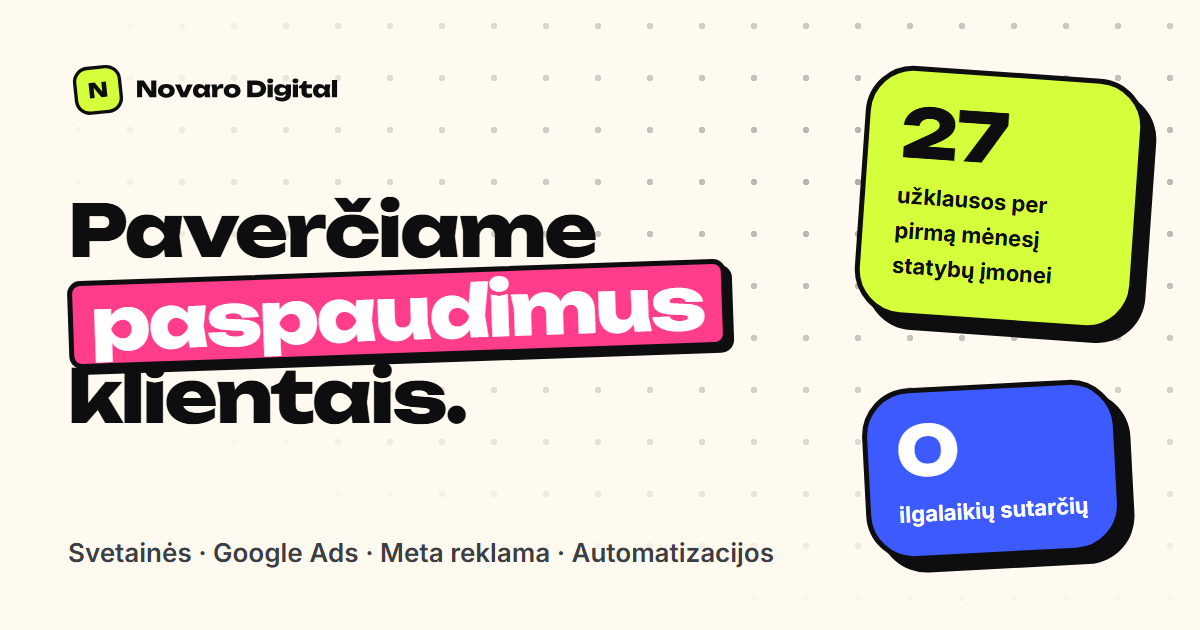
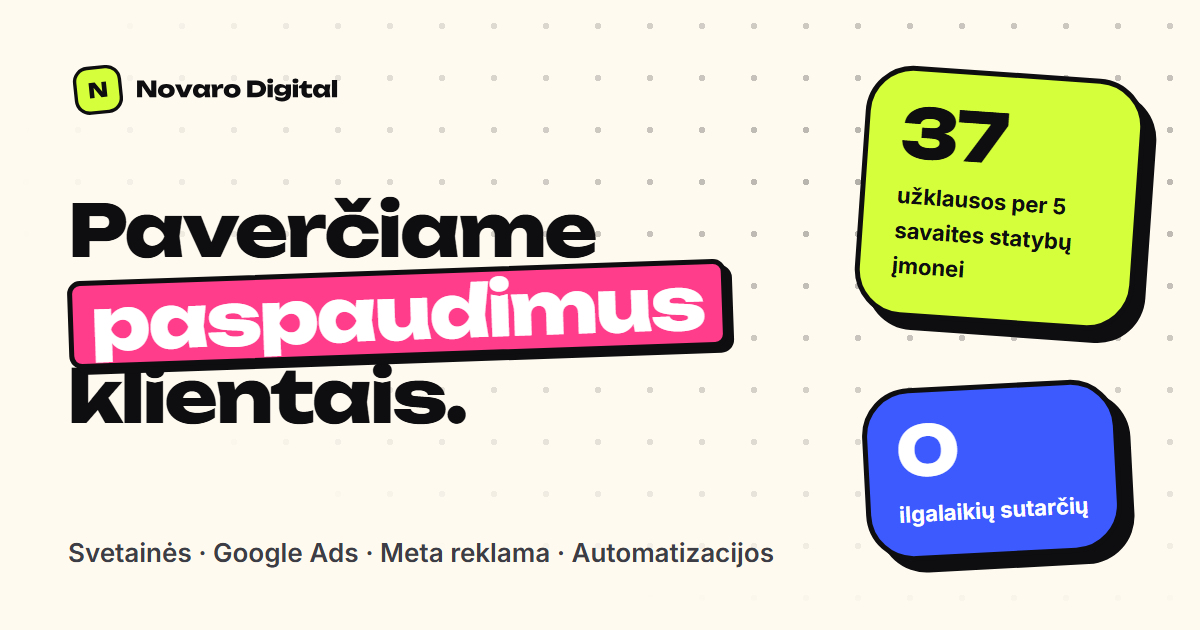
Update construction result: 37 leads, 6.15 EUR per lead over 5 weeks
Stats strip, result card, hero mockup, og-image and README.

Changed region(s): [[0.74, 0.3619, 0.8942, 0.4524], [0.74, 0.181, 0.8017, 0.2714], [0.8633, 0.3016, 0.8942, 0.3317]]

diff --git a/index.html b/index.html
@@ -617,11 +617,11 @@
           <div class="ad-url">Skelbimas · novarodigital.lt</div>
           <div class="ad-title">Namų statyba Kaune – kaina per 24 val.</div>
           <p class="ad-desc">Fiksuota kaina, garantija 10 metų. Užsisakykite nemokamą konsultaciją.</p>
-          <div class="ad-stats"><span>CTR 9,4%</span><span>Užklausa – 7,01 €</span></div>
+          <div class="ad-stats"><span>CTR 9,4%</span><span>Užklausa – 6,15 €</span></div>
         </div></div>
         <div class="float float-2" aria-hidden="true"><div class="mock ad-meta">
           <div class="mock-label"><span class="dot" style="background:#fff"></span>Meta Ads · Užklausos</div>
-          <strong>27</strong>
+          <strong>37</strong>
           <div class="mini-bars"><i data-h="30"></i><i data-h="45"></i><i data-h="38"></i><i data-h="60"></i><i data-h="72"></i><i data-h="100"></i></div>
         </div></div>
         <div class="float float-3" aria-hidden="true"><div class="mock toast">
@@ -648,7 +648,7 @@
     <!-- Tik tikri faktai – nepridėkite skaičių, kurių negalite įrodyti -->
     <section class="wrap" aria-label="Mūsų skaičiai">
       <div class="stats">
-        <div class="stat reveal"><strong data-count="27" data-suffix=" užklausos">27 užklausos</strong><span>po 7,01 € per pirmą mėnesį statybų įmonei</span></div>
+        <div class="stat reveal"><strong data-count="37" data-suffix=" užklausos">37 užklausos</strong><span>po 6,15 € per 5 savaites statybų įmonei</span></div>
         <div class="stat reveal reveal-d1"><strong>2&nbsp;d.&nbsp;d.</strong><span>nemokamas auditas su konkrečiais siūlymais</span></div>
         <div class="stat reveal reveal-d2"><strong>0</strong><span>ilgalaikių sutarčių</span></div>
         <div class="stat reveal reveal-d3"><strong data-count="100" data-suffix="&nbsp;%">100&nbsp;%</strong><span>reklamos paskyrų priklauso jums</span></div>
@@ -749,9 +749,9 @@
         <!-- Tik tikri, kliento leidimu skelbiami rezultatai, be kliento pavadinimo -->
         <div class="work work--single">
           <article class="work-item reveal">
-            <div class="work-top"><div class="work-metric-label work-label">Statybų įmonė · Meta reklama</div><div class="work-metric" data-count="27" data-suffix=" užklausos">27 užklausos</div></div>
+            <div class="work-top"><div class="work-metric-label work-label">Statybų įmonė · Meta reklama</div><div class="work-metric" data-count="37" data-suffix=" užklausos">37 užklausos</div></div>
             <div class="work-body">
-              <p>Per pirmą mėnesį – po 7,01 € už užklausą. Facebook užklausų forma, 189 € reklamos biudžetas.</p>
+              <p>Per 5 savaites – po 6,15 € už užklausą. Facebook užklausų forma, 227,70 € reklamos biudžetas.</p>
             </div>
           </article>
         </div>

diff --git a/README.md b/README.md
@@ -19,13 +19,13 @@
 > **Tik tikri duomenys.** Skaičiai, rezultatai ir kontaktai svetainėje – tikri (atnaujinta 2026-10-28). Nepridėkite skaičių ar klientų atvejų, kurių negalite įrodyti.
 
 1. **Kontaktai** – `index.html`: telefonas „+370 606 79982“ (`tel:+37060679982`), el. paštas info@novarodigital.lt; tas pats `<head>` JSON-LD bloke. Rekvizitai (MB Wellbeing solutions) – poraštėje ir `privatumo-politika/index.html`.
-2. **Skaičiai ir rezultatai** – pradžios statistika (27 užklausos, 2 d. d., 0, 100 %) ir viena „Pirmieji rezultatai“ kortelė. Naujus rezultatus skelbkite tik kliento leidimu.
+2. **Skaičiai ir rezultatai** – pradžios statistika (37 užklausos, 2 d. d., 0, 100 %; statybų įmonės duomenys iki 2026-11-02) ir viena „Pirmieji rezultatai“ kortelė. Naujus rezultatus skelbkite tik kliento leidimu.
 3. **Kainos** – sekcija `#kainos`, tekstas patvirtintas `novaro-kainos-sekcija.md` (v1); keisti tik su nauja patvirtinta versija. Kainos rodomos be PVM. Bendrajame DUK kainų nebėra, kad nesikirstų su kainų sekcija; `<head>` JSON-LD bloke – tik bendro DUK klausimai.
 4. **Spalvos** – `index.html` viršuje, `:root { --lime: …; --pink: …; --blue: … }`.
 5. **Matoma Google** – svetainė paleista novarodigital.lt (`index,follow`, be `X-Robots-Tag`). Kanoniniai adresai ir `og:url` rodo į https://novarodigital.lt/.
 4. **`contact.php`** – viršuje įrašykite `$TO_EMAIL` ir `$FROM_EMAIL` (jūsų domeno adresas).
 5. **Analitika** – Google Tag Manager GTM-WCJP88J8 abiejuose puslapiuose; GA4 (G-Y5Y06G1R8K) ir Meta Pixel įkeliami tik per GTM, tik sutikus. Žr. `gtm/README.md`. Naujus puslapius papildykite tuo pačiu `<head>` sutikimo + GTM fragmentu ir `tracking.js`, o `sitemap.xml` – nauju adresu.
-6. **`og-image.png`** – 1200×630 px, sukurtas iš prekės ženklo šablono `templates/og-image.html`. Jame skaičiai „27“ ir „0“ – pakeitus statistiką, atnaujinkite ir jį.
+6. **`og-image.png`** – 1200×630 px, sukurtas iš prekės ženklo šablono `templates/og-image.html`. Jame skaičiai „37“ ir „0“ – pakeitus statistiką, atnaujinkite ir jį.
 
 ## Įkėlimas
 
